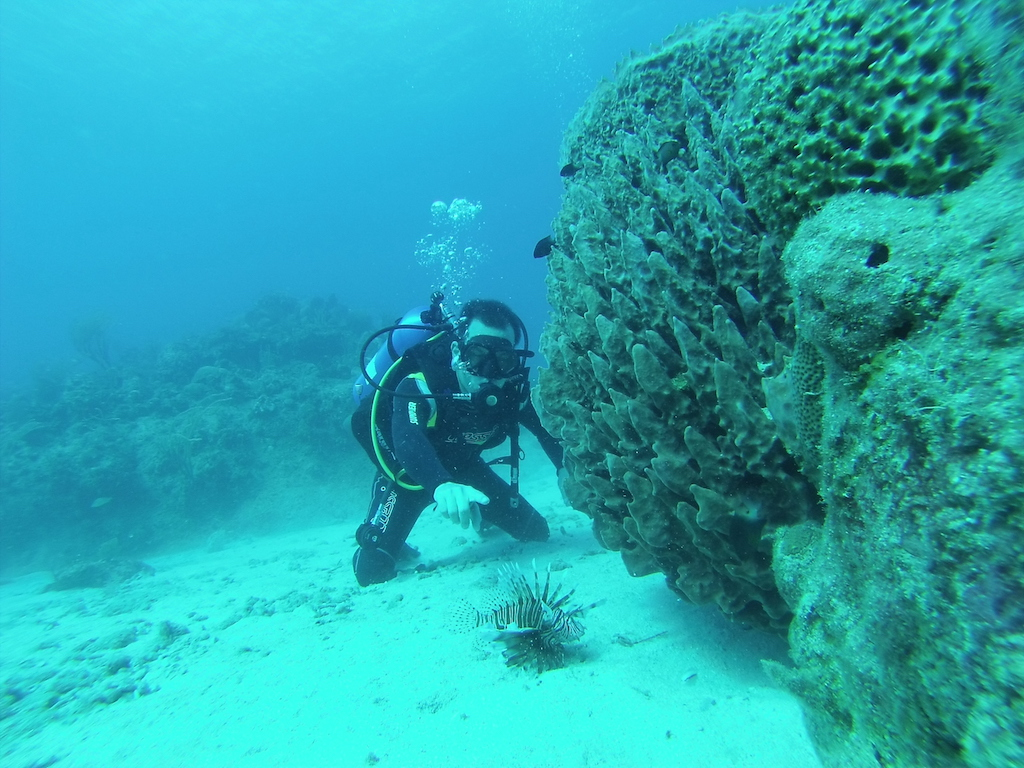
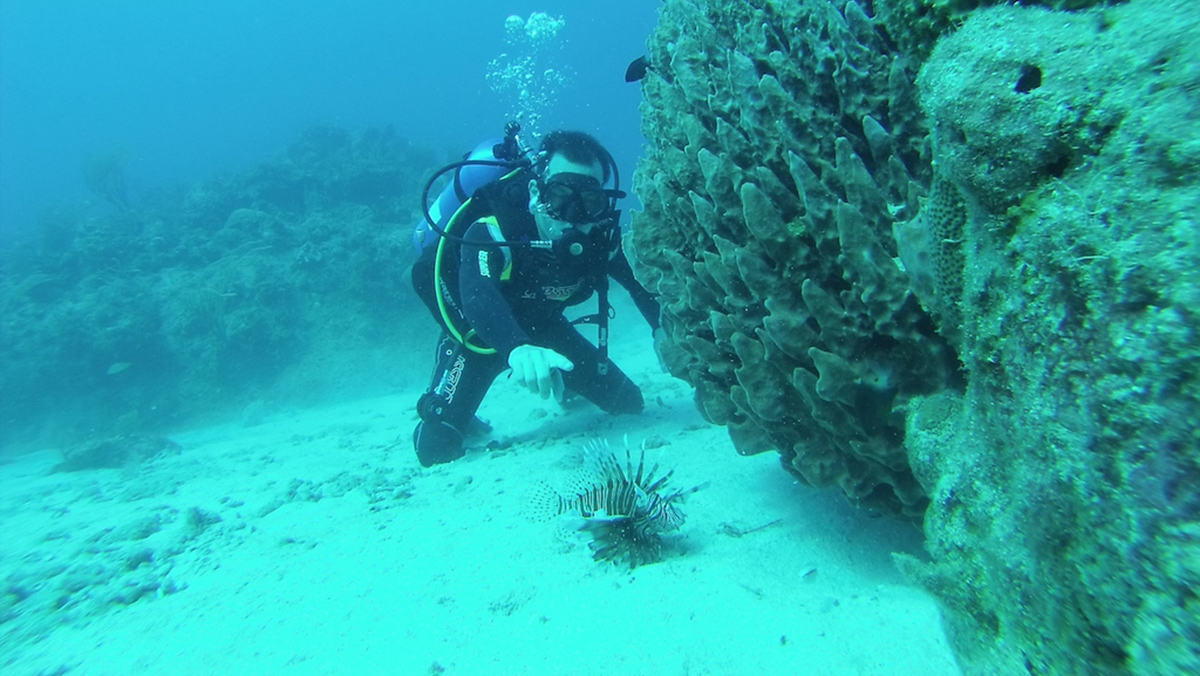
update thumbs

diff --git a/index.html b/index.html
@@ -27,26 +27,27 @@
             <div class="dive-event">
                 <a href="2017-jan-cozumel.html">
                     <img class="thumbnail" src="assets/thumbnails/cozumel.jpg" alt="Cozumel, Quintana Roo, Mexico">
-                    Cozumel Island, México. Jan 2017
+                    Cozumel Island, Quintana Roo, México. Jan 2017
                 </a>
-                </div>
-                <div class="dive-event">
-                    <a href="2017-jun-habana-cuba.html">
-                        <img class="thumbnail" src="assets/thumbnails/el-salado.jpg" alt="El Salado, La Habana, Cuba">
-                        El Salado, La Habana, Cuba. Jun 2017
-                    </a>
-                </div>
+            </div>
+            <div class="dive-event">
+                <a href="2017-jun-habana-cuba.html">
+                    <img class="thumbnail" src="assets/thumbnails/el-salado.jpg" alt="El Salado, La Habana, Cuba">
+                    El Salado, La Habana, Cuba. Jun 2017
+                </a>
+            </div>
 
-                <div class="dive-event">
-                    <a href="2017-ago-la-plata-puerto-lopez-ecuador.html">
+            <div class="dive-event">
+                <a href="2017-ago-la-plata-puerto-lopez-ecuador.html">
                     <img class="thumbnail" src="assets/thumbnails/la-plata.jpg" alt="La Plata, Ecuador">
                     "La Plata" Island, Puerto López, Ecuador. Ago 2017
                 </a>
-                </div>
+            </div>
 
-                <div class="dive-event">
+            <div class="dive-event">
                 <a href="2018-jan-punta-del-este-uruguay.html">
-                    <img class="thumbnail" src="assets/thumbnails/sea-wolves-island.jpg" alt="Sea Wolves Island, Uruguay">
+                    <img class="thumbnail" src="assets/thumbnails/sea-wolves-island.jpg"
+                        alt="Sea Wolves Island, Uruguay">
                     Sea Wolves Island, Punta del Este, Uruguay. Jan 2018
                 </a>
             </div>
@@ -56,16 +57,16 @@
                     <img class="thumbnail" src="assets/thumbnails/la-plata-2.jpg" alt="La Plata, Ecuador">
                     "La Plata" Island, Puerto López, Ecuador. Ago 2018
                 </a>
-                </div>
+            </div>
 
-                <div class="dive-event">
-                    <a href="2018-dec-galapagos-ecuador.html">
+            <div class="dive-event">
+                <a href="2018-dec-galapagos-ecuador.html">
                     <img class="thumbnail" src="assets/thumbnails/gordon-rocks.png" alt="Galapagos Islands">
                     Galapagos Islands, Ecuador. Dec 2018
                 </a>
-                </div>
+            </div>
 
-                <div class="dive-event">
+            <div class="dive-event">
                 <a href="2019-jan-islas-mujeres-mexico.html">
                     <img class="thumbnail" src="assets/thumbnails/museum-of-arts.jpg" alt="Islas Mujeres, México">
                     Islas Mujeres, México. Jan 2019
@@ -77,20 +78,28 @@
                     <img class="thumbnail" src="assets/thumbnails/sand-waterfalls.png" alt="Cabo San Luca, México">
                     Cabo San Luca, Baja California, México. Feb 2022
                 </a>
-                </div>
+            </div>
 
-                <div class="dive-event">
-                    <a href="2022-mar-riviera-maya-mexico.html">
-                        <img class="thumbnail" src="assets/thumbnails/cenote-maravilla.jpg" alt="Riviera Maya, México">
-                        Riviera Maya, México. Mar 2022
-                        </a>
-                        </div>
-                <div class="dive-event">
-                    <a href="2023-jan-guardalavaca-cuba.html">
-                        <img class="thumbnail" src="assets/thumbnails/guardalavaca.jpg" alt="Guardalavaca, Cuba">
-                        Guardalavaca, Cuba. Jan 2023
-                    </a>
-                </div>
+            <div class="dive-event">
+                <a href="2022-mar-riviera-maya-mexico.html">
+                    <img class="thumbnail" src="assets/thumbnails/cenote-maravilla.jpg" alt="Riviera Maya, México">
+                    Riviera Maya, México. Mar 2022
+                </a>
+            </div>
+
+            <div class="dive-event">
+                <a href="2023-jan-guardalavaca-cuba.html">
+                    <img class="thumbnail" src="assets/thumbnails/guardalavaca.jpg" alt="Guardalavaca, Cuba">
+                    Guardalavaca, Holguín, Cuba. Jan 2023
+                </a>
+            </div>
+
+            <div class="dive-event">
+                <a href="2021-present-vancouver-island.html">
+                    <img class="thumbnail" src="assets/thumbnails/victoria.jpg" alt="Guardalavaca, Cuba">
+                    Vancouver Island, BC, Canada. Apr 2021-Present
+                </a>
+            </div>
         </section>
     </div>
 </body>

diff --git a/2021-present-vancouver-island.html b/2021-present-vancouver-island.html
@@ -1,0 +1,37 @@
+<!DOCTYPE html>
+
+<html lang="en-US">
+
+<head>
+    <meta http-equiv="Content-Type" content="text/html; charset=UTF-8">
+    <meta http-equiv="X-UA-Compatible" content="IE=edge">
+    <meta name="viewport" content="width=device-width, initial-scale=1">
+    <link rel="stylesheet" href="./assets/style.css">
+    <meta name="theme-color" content="#151515">
+    <title>Mike's Top Dives - Vancouver Island, BC, Canada. Apr 2021-Present</title>
+
+    <link rel="stylesheet" href="https://cdn.jsdelivr.net/npm/swiper@8/swiper-bundle.min.css" />
+    <script src="https://cdn.jsdelivr.net/npm/swiper@8/swiper-bundle.min.js"></script>
+    <script defer src="./scripts/slider.js"></script>
+
+</head>
+
+<body>
+
+    <header>
+        <div class="container">
+            <a class="a-title" href="index.html">
+                <h1>./ Home</h1>
+            </a>
+            <h2>Vancouver Island, British Columbia, Canada. Apr 2021 - Present</h2>
+        </div>
+    </header>
+
+    <div class="container">
+        <section id="main_content">
+
+        </section>
+    </div>
+</body>
+
+</html>
